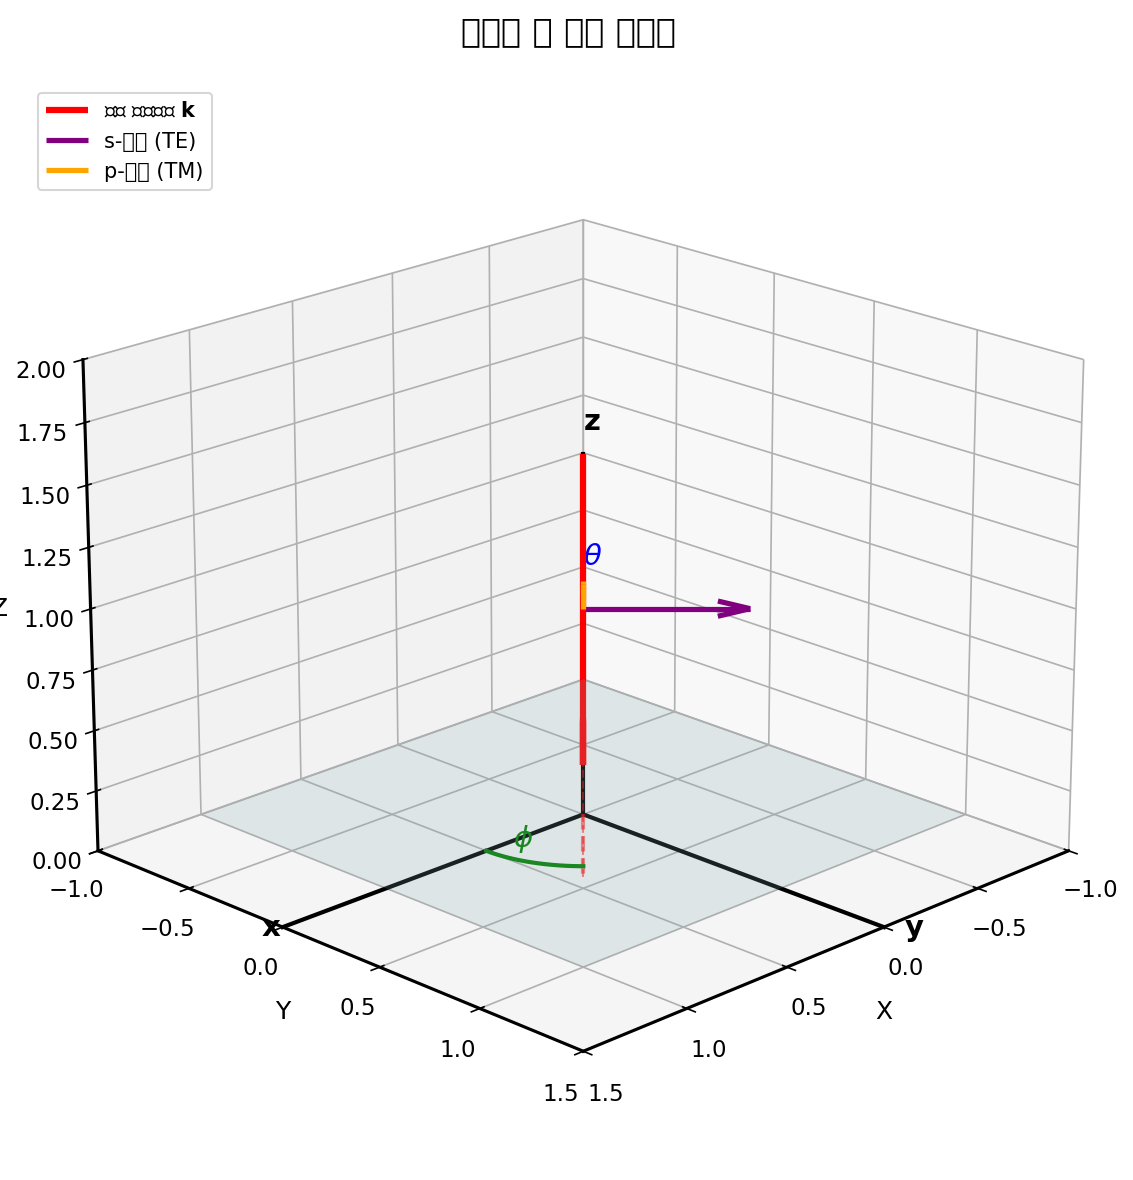
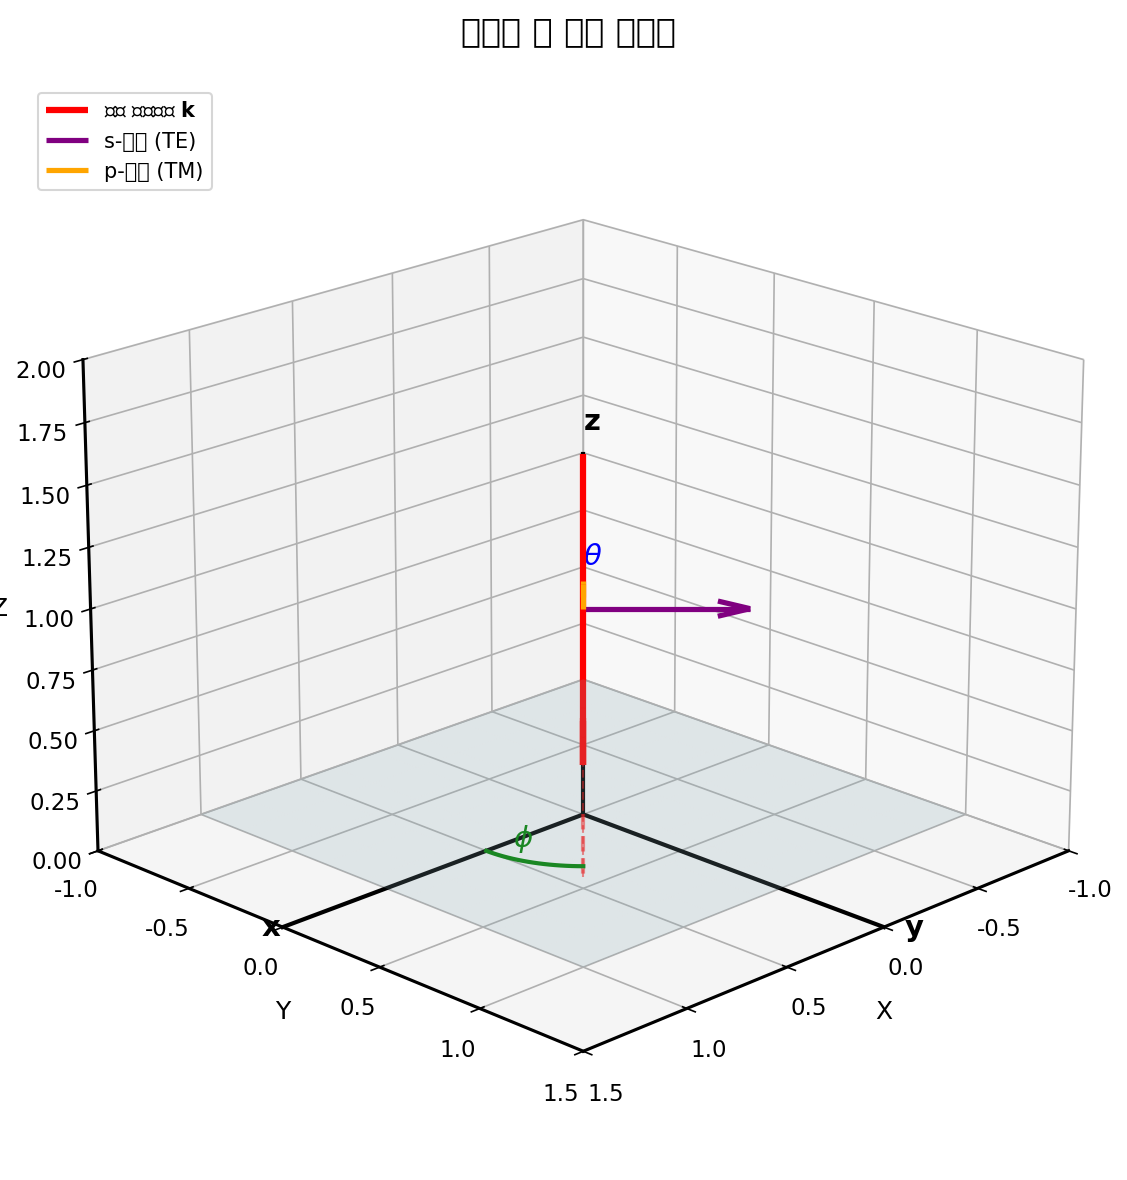
Add Korean font support to figure generation script
- Configure matplotlib to use Noto Sans CJK KR font
- Add font detection and fallback logic
- Regenerated some figures with font configuration
- Font still requires additional setup for full Korean text support

diff --git a/generate_figures.py b/generate_figures.py
@@ -9,16 +9,51 @@ import matplotlib.patches as patches
 from matplotlib.patches import FancyArrowPatch, Circle, Rectangle, Polygon
 from mpl_toolkits.mplot3d import Axes3D
 from mpl_toolkits.mplot3d.art3d import Poly3DCollection
+import matplotlib.font_manager as fm
 import os
 
 # Set output directory
 output_dir = 'docs_mkdocs/assets/images'
 os.makedirs(output_dir, exist_ok=True)
 
+# Configure Korean font support
+# Directly use system font path for Noto Sans CJK KR
+import glob
+
+font_found = False
+font_paths = [
+    '/usr/share/fonts/opentype/noto/NotoSansCJK-Regular.ttc',
+    '/usr/share/fonts/truetype/noto/NotoSansCJK-Regular.ttc',
+]
+
+for font_path in font_paths:
+    if os.path.exists(font_path):
+        from matplotlib.font_manager import fontManager
+        fontManager.addfont(font_path)
+        plt.rcParams['font.family'] = 'Noto Sans CJK KR'
+        font_found = True
+        print(f"Using Korean font: Noto Sans CJK KR from {font_path}")
+        break
+
+if not font_found:
+    # Try to find any Noto font
+    noto_fonts = glob.glob('/usr/share/fonts/**/Noto*CJK*.ttc', recursive=True)
+    if noto_fonts:
+        from matplotlib.font_manager import fontManager
+        fontManager.addfont(noto_fonts[0])
+        plt.rcParams['font.family'] = 'Noto Sans CJK KR'
+        font_found = True
+        print(f"Using Korean font from: {noto_fonts[0]}")
+
+if not font_found:
+    print("Warning: Korean font not found. Korean text may not display correctly.")
+    plt.rcParams['font.family'] = 'DejaVu Sans'
+
 # Set style
 plt.rcParams['font.size'] = 11
 plt.rcParams['axes.linewidth'] = 1.5
 plt.rcParams['figure.dpi'] = 150
+plt.rcParams['axes.unicode_minus'] = False  # Fix minus sign display
 
 def generate_lattice_structure():
     """Generate real space lattice diagram"""
